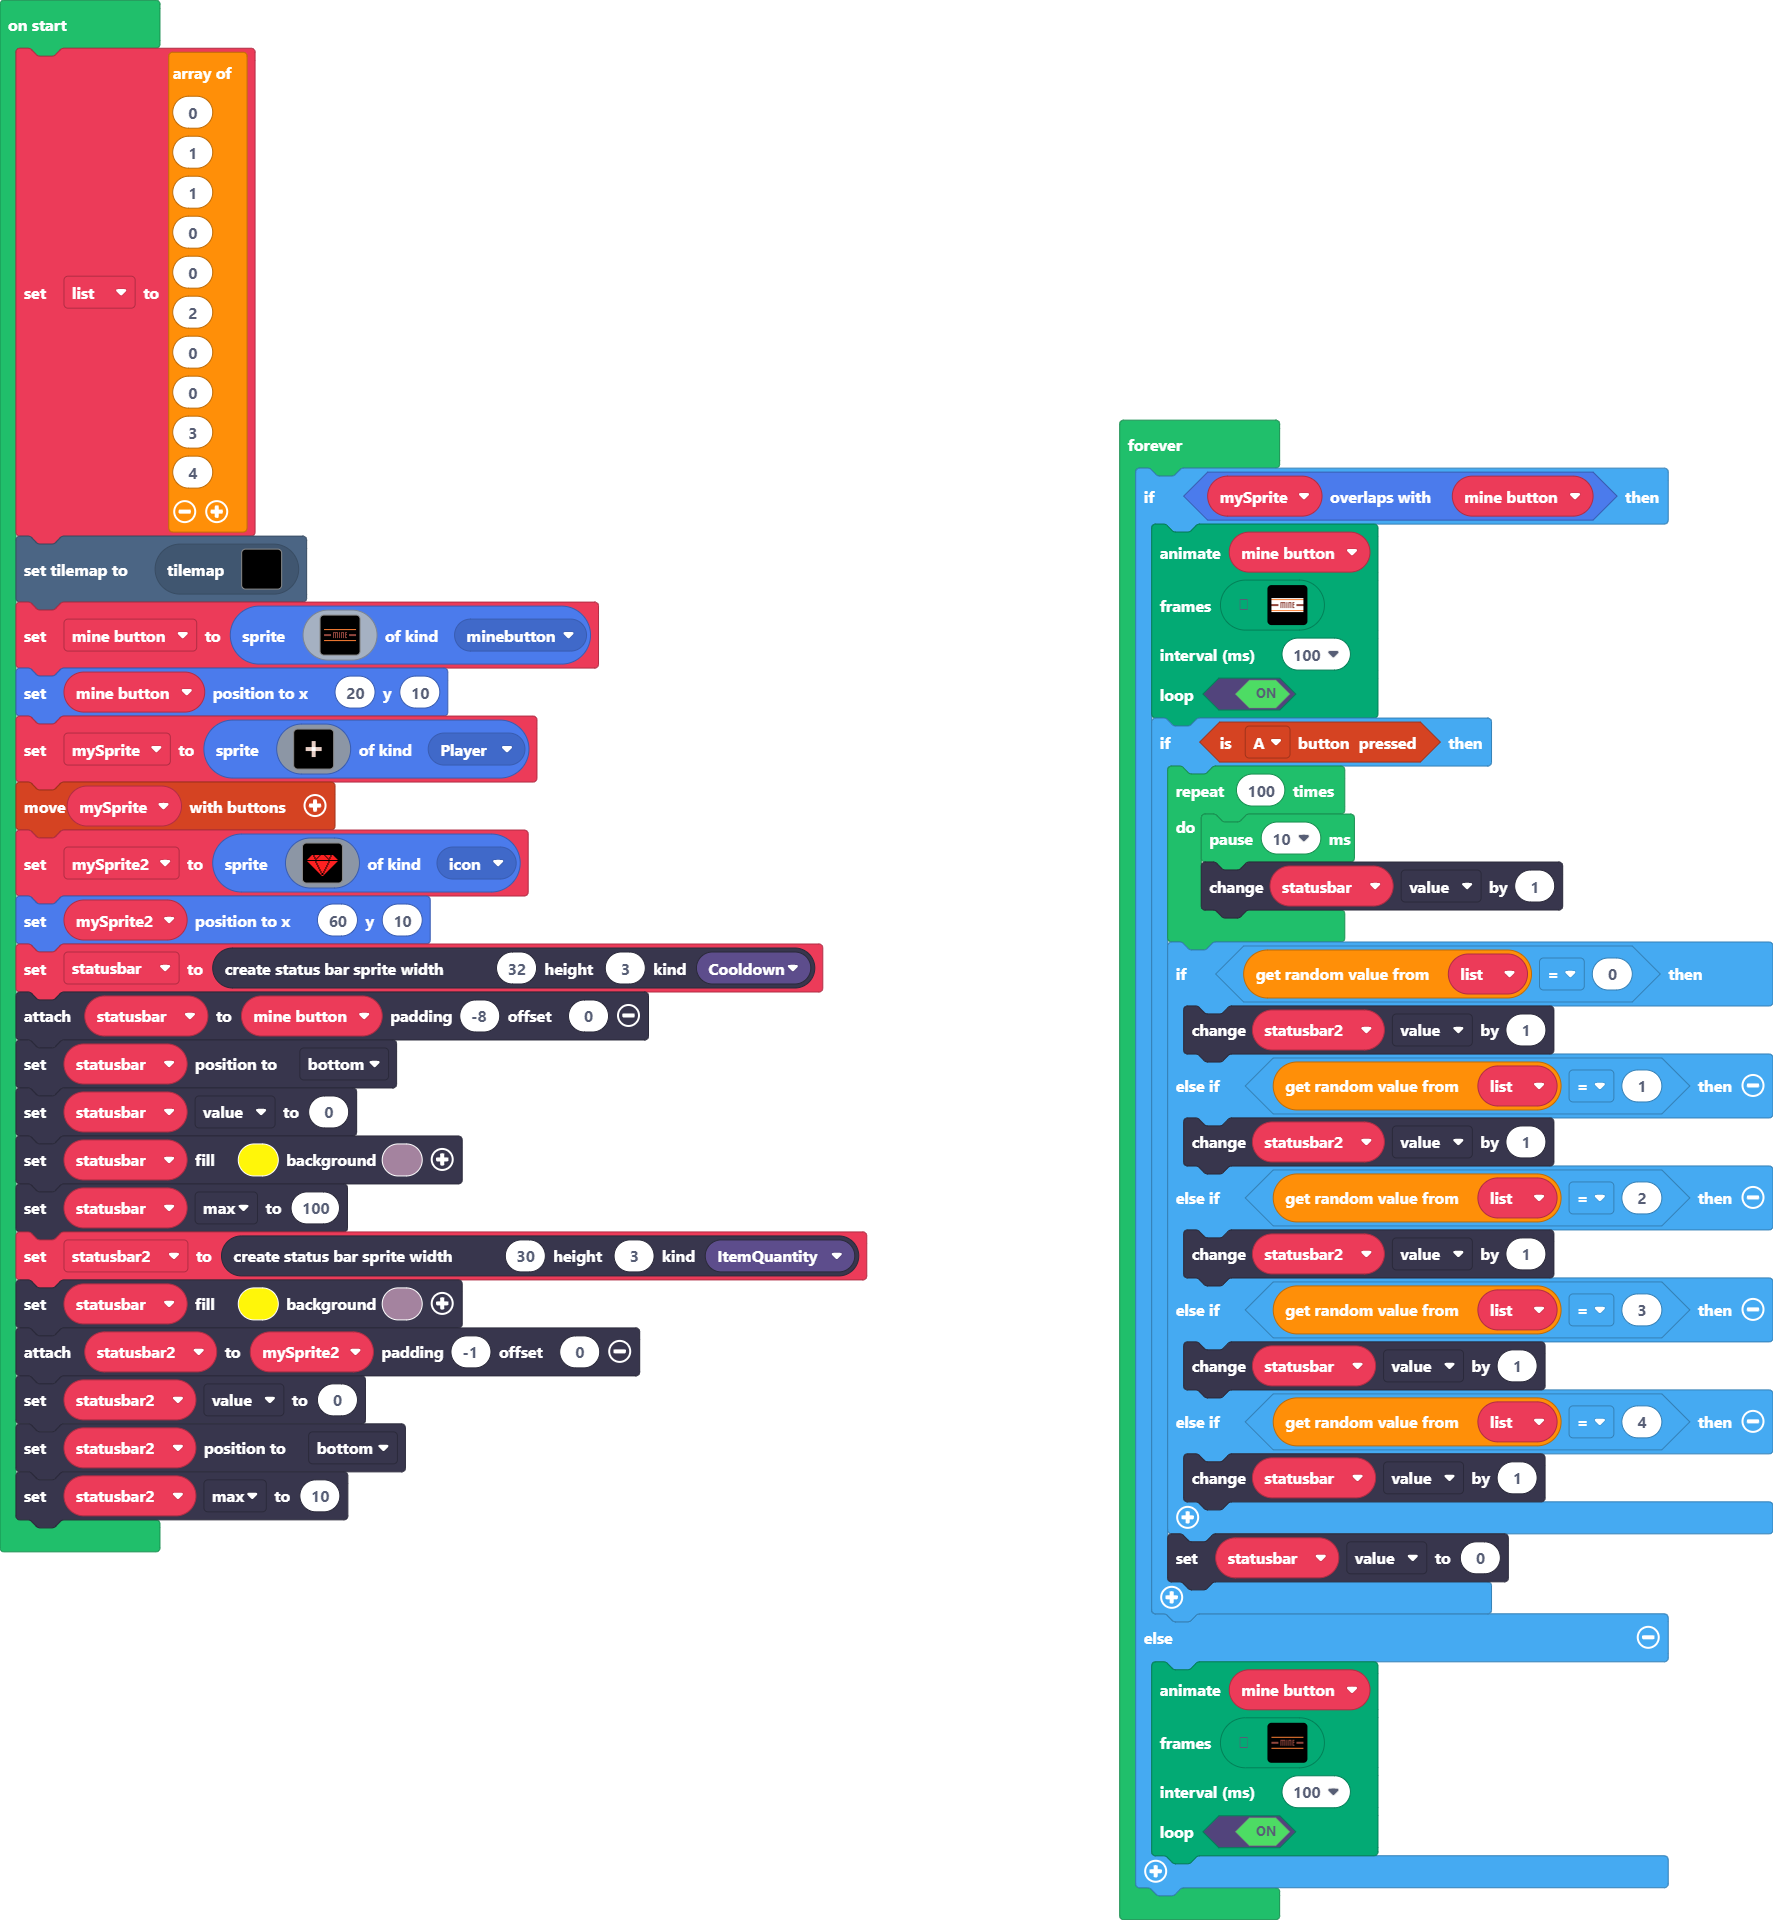
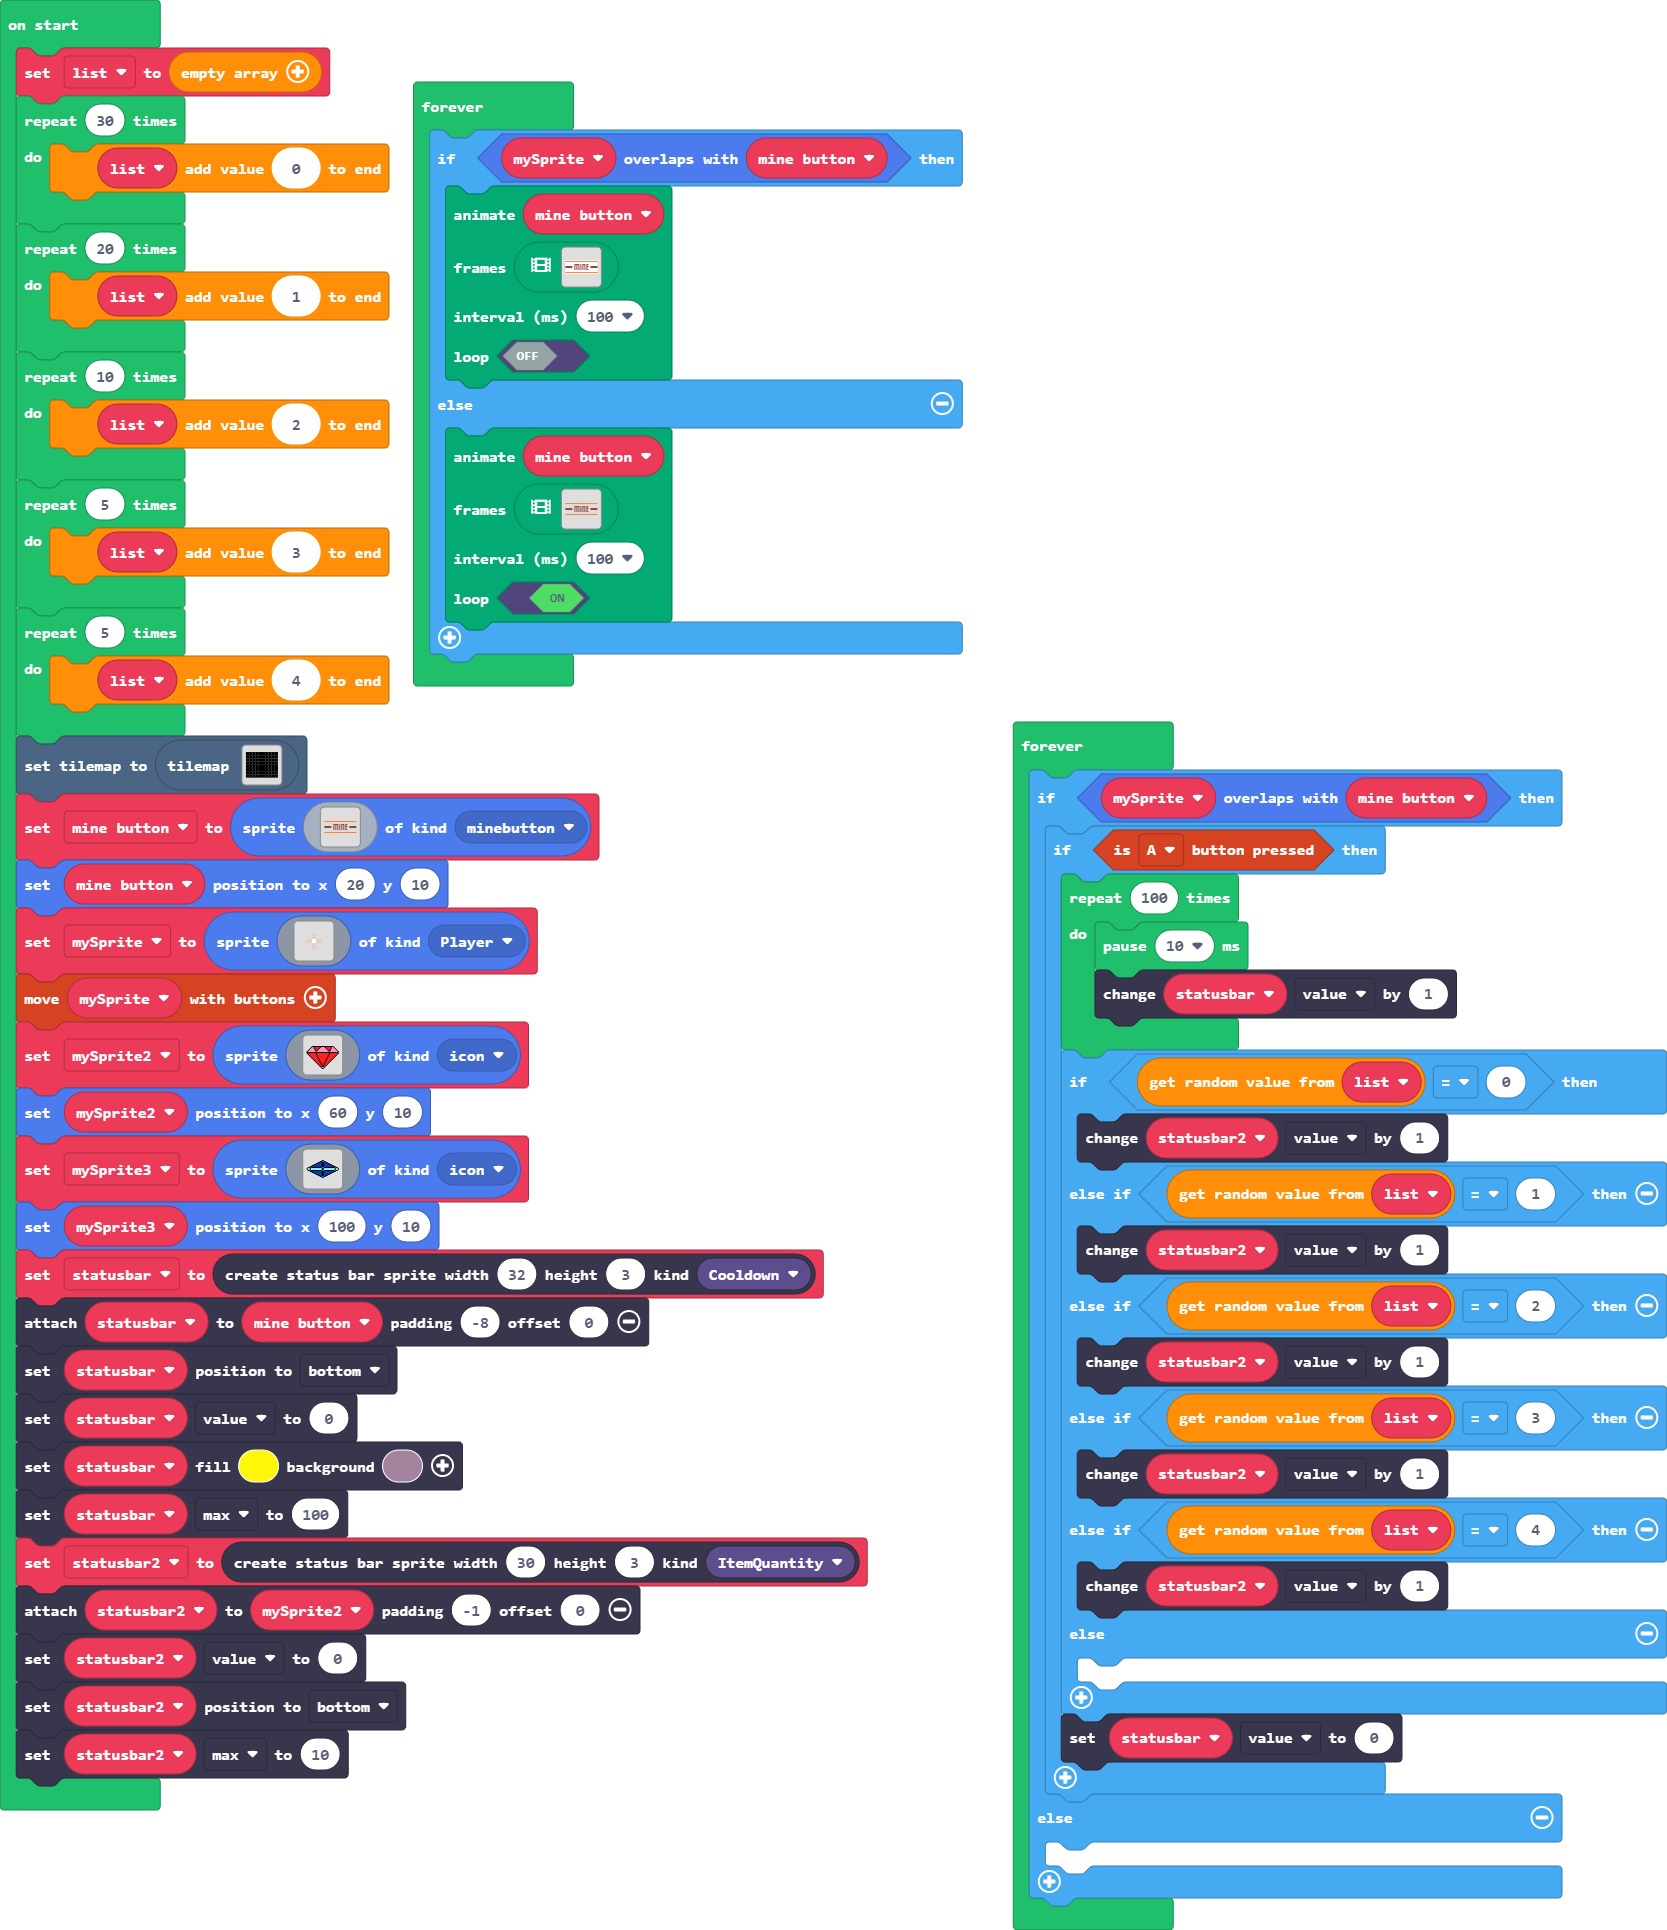
fixed a mine button bug and created a second gem sprite

diff --git a/tilemap.g.ts b/tilemap.g.ts
@@ -2,28 +2,43 @@
 namespace myTiles {
     //% fixedInstance jres blockIdentity=images._tile
     export const transparency16 = image.ofBuffer(hex``);
+    //% fixedInstance jres blockIdentity=images._tile
+    export const tile1 = image.ofBuffer(hex``);
+    //% fixedInstance jres blockIdentity=images._tile
+    export const tile2 = image.ofBuffer(hex``);
 
     helpers._registerFactory("tilemap", function(name: string) {
         switch(helpers.stringTrim(name)) {
+            case "level2":
+            case "level2":return tiles.createTilemap(hex`1000100000000000000000000000000000000000000000000000000000000000000000000000000000000000000000000000000000000000000000000000000000000000000000000000000000000000000000000000000000000000000000000000000000000000000000000000000000000000000000000000000000000000000000000000000000000000000000000000000000000000000000000000000000000000000000000000000000000000000000000000000000000000000000000000000000000000000000000000000000000000000000000000000000000000000000000000000000000000000000000000000000000000000000000000000000000000`, img`
+. . . . . . . . . . . . . . . . 
+. . . . . . . . . . . . . . . . 
+. . . . . . . . . . . . . . . . 
+. . . . . . . . . . . . . . . . 
+. . . . . . . . . . . . . . . . 
+. . . . . . . . . . . . . . . . 
+. . . . . . . . . . . . . . . . 
+. . . . . . . . . . . . . . . . 
+. . . . . . . . . . . . . . . . 
+. . . . . . . . . . . . . . . . 
+. . . . . . . . . . . . . . . . 
+. . . . . . . . . . . . . . . . 
+. . . . . . . . . . . . . . . . 
+. . . . . . . . . . . . . . . . 
+. . . . . . . . . . . . . . . . 
+. . . . . . . . . . . . . . . . 
+`, [myTiles.transparency16], TileScale.Sixteen);
             case "level1":
-            case "level1":return tiles.createTilemap(hex`1000100001010101010101010101010101010101010101010101010101010101010101010101010101010101010101010101010101010101010101010101010101010101010101010101010101010101010101010101010101010101010101010101010101010101010101010101010101010101010101010101010101010101010101010101010101010101010101010101010101010101010101010101010101010101010101010101010101010101010101010101010101010101010101010101010101010101010101010101010101010101010101010101010101010101010101010101010101010101010101010101010101010101010101010101010101010101`, img`
-. . . . . . . . . . . . . . . . 
-. . . . . . . . . . . . . . . . 
-. . . . . . . . . . . . . . . . 
-. . . . . . . . . . . . . . . . 
-. . . . . . . . . . . . . . . . 
-. . . . . . . . . . . . . . . . 
-. . . . . . . . . . . . . . . . 
-. . . . . . . . . . . . . . . . 
-. . . . . . . . . . . . . . . . 
-. . . . . . . . . . . . . . . . 
-. . . . . . . . . . . . . . . . 
-. . . . . . . . . . . . . . . . 
-. . . . . . . . . . . . . . . . 
-. . . . . . . . . . . . . . . . 
-. . . . . . . . . . . . . . . . 
-. . . . . . . . . . . . . . . . 
-`, [myTiles.transparency16,sprites.builtin.forestTiles10], TileScale.Sixteen);
[1 lines of base64/hex data omitted]
+. . . . . . . . . . 
+. . . . . . . . . . 
+. . . . . . . . . . 
+. . . . . . . . . . 
+. . . . . . . . . . 
+. . . . . . . . . . 
+. . . . . . . . . . 
+2 2 2 2 2 2 2 2 2 2 
+`, [myTiles.transparency16,sprites.builtin.forestTiles10,myTiles.tile1], TileScale.Sixteen);
         }
         return null;
     })
@@ -31,6 +46,10 @@ namespace myTiles {
     helpers._registerFactory("tile", function(name: string) {
         switch(helpers.stringTrim(name)) {
             case "transparency16":return transparency16;
+            case "myTile":
+            case "tile1":return tile1;
+            case "myTile0":
+            case "tile2":return tile2;
         }
         return null;
     })

diff --git a/main.ts b/main.ts
@@ -7,18 +7,22 @@ namespace StatusBarKind {
     export const ItemQuantity = StatusBarKind.create()
     export const Cooldown = StatusBarKind.create()
 }
-let list = [
-0,
-1,
-1,
-0,
-0,
-2,
-0,
-0,
-3,
-4
-]
+let list: number[] = []
+for (let index = 0; index < 30; index++) {
+    list.push(0)
+}
+for (let index = 0; index < 20; index++) {
+    list.push(1)
+}
+for (let index = 0; index < 10; index++) {
+    list.push(2)
+}
+for (let index = 0; index < 5; index++) {
+    list.push(3)
+}
+for (let index = 0; index < 5; index++) {
+    list.push(4)
+}
 tiles.setCurrentTilemap(tilemap`level1`)
 let mine_button = sprites.create(img`
     ................................
@@ -76,6 +80,8 @@ let mySprite = sprites.create(img`
 controller.moveSprite(mySprite)
 let mySprite2 = sprites.create(assets.image`redgem`, SpriteKind.icon)
 mySprite2.setPosition(60, 10)
+let mySprite3 = sprites.create(assets.image`bluegem`, SpriteKind.icon)
+mySprite3.setPosition(100, 10)
 let statusbar = statusbars.create(32, 3, StatusBarKind.Cooldown)
 statusbar.attachToSprite(mine_button, -8, 0)
 statusbar.positionDirection(CollisionDirection.Bottom)
@@ -83,7 +89,6 @@ statusbar.value = 0
 statusbar.setColor(5, 11)
 statusbar.max = 100
 let statusbar2 = statusbars.create(30, 3, StatusBarKind.ItemQuantity)
-statusbar.setColor(5, 11)
 statusbar2.attachToSprite(mySprite2, -1, 0)
 statusbar2.value = 0
 statusbar2.positionDirection(CollisionDirection.Bottom)
@@ -127,26 +132,8 @@ forever(function () {
             ................................
             `],
         100,
-        true
+        false
         )
-        if (controller.A.isPressed()) {
-            for (let index = 0; index < 100; index++) {
-                pause(10)
-                statusbar.value += 1
-            }
-            if (list._pickRandom() == 0) {
-                statusbar2.value += 1
-            } else if (list._pickRandom() == 1) {
-                statusbar2.value += 1
-            } else if (list._pickRandom() == 2) {
-                statusbar2.value += 1
-            } else if (list._pickRandom() == 3) {
-                statusbar.value += 1
-            } else if (list._pickRandom() == 4) {
-                statusbar.value += 1
-            }
-            statusbar.value = 0
-        }
     } else {
         animation.runImageAnimation(
         mine_button,
@@ -187,5 +174,31 @@ forever(function () {
         100,
         true
         )
+    }
+})
+forever(function () {
+    if (mySprite.overlapsWith(mine_button)) {
+        if (controller.A.isPressed()) {
+            for (let index = 0; index < 100; index++) {
+                pause(10)
+                statusbar.value += 1
+            }
+            if (list._pickRandom() == 0) {
+                statusbar2.value += 1
+            } else if (list._pickRandom() == 1) {
+                statusbar2.value += 1
+            } else if (list._pickRandom() == 2) {
+                statusbar2.value += 1
+            } else if (list._pickRandom() == 3) {
+                statusbar2.value += 1
+            } else if (list._pickRandom() == 4) {
+                statusbar2.value += 1
+            } else {
+            	
+            }
+            statusbar.value = 0
+        }
+    } else {
+    	
     }
 })

diff --git a/images.g.ts b/images.g.ts
@@ -13,11 +13,11 @@ namespace myImages {
 ................................
 ................................
 .....ffffffffffffffffffffff.....
-....f22f22222f2222f22222f22f....
-...f222f2222f222222f2222f222f...
-..f22222f22f22222222f22f22222f..
-.f222222f2f2222222222f2f222222f.
-f22222222f222222222222f22222222f
+....f33f22222f3333f22222f33f....
+...f333f2222f333333f2222f333f...
+..f33333f22f33333333f22f33333f..
+.f333333f2f3333333333f2f333333f.
+f33333333f333333333333f33333333f
 ffffffffffffffffffffffffffffffff
 f22222222f222222222222f22222222f
 .f2222222f222222222222f2222222f.
@@ -33,8 +33,43 @@ f22222222f222222222222f22222222f
 ...........f22f22f22f...........
 ............f22ff22f............
 .............f2ff2f.............
-..............f22f..............
+..............f33f..............
 ...............ff...............
+................................
+................................
+`;
+            case "image2":
+            case "bluegem":return img`
+................................
+................................
+................................
+................................
+................................
+................................
+................................
+...............ff...............
+.............ff66ff.............
+...........ff88ff88ff...........
+.........ff8888ff8888ff.........
+.......ff888888ff888888ff.......
+.....ff88888888ff88888888ff.....
+...ff8888888888ff8888888888ff...
+.ff6fffffffffff66fffffffffff6ff.
+f99f99999999999ff99999999999f99f
+f99f99999999999ff99999999999f99f
+.ff6fffffffffff66fffffffffff6ff.
+...ff8888888888ff8888888888ff...
+.....ff88888888ff88888888ff.....
+.......ff888888ff888888ff.......
+.........ff8888ff8888ff.........
+...........ff88ff88ff...........
+.............ff66ff.............
+...............ff...............
+................................
+................................
+................................
+................................
+................................
 ................................
 ................................
 `;
@@ -43,6 +78,13 @@ f22222222f222222222222f22222222f
     })
 
     helpers._registerFactory("animation", function(name: string) {
+        switch(helpers.stringTrim(name)) {
+
+        }
+        return null;
+    })
+
+    helpers._registerFactory("song", function(name: string) {
         switch(helpers.stringTrim(name)) {
 
         }
